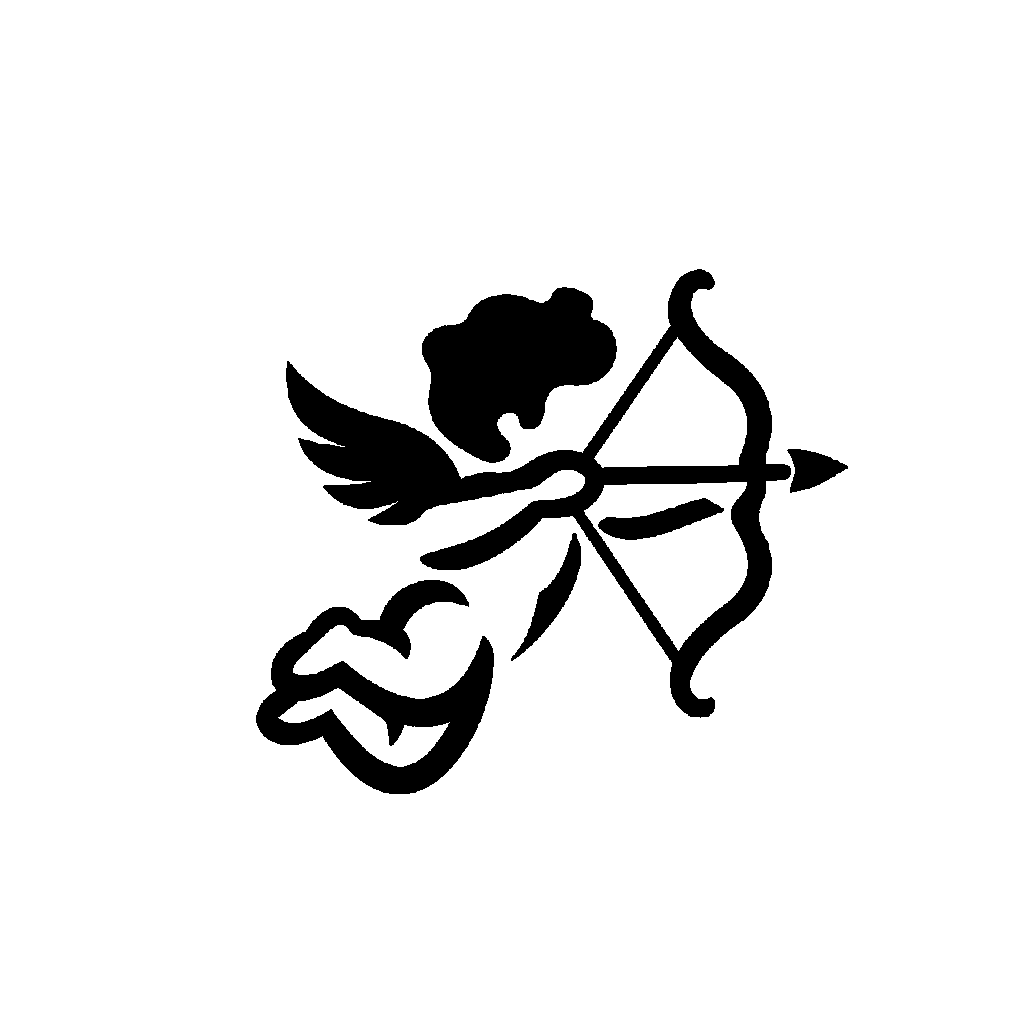
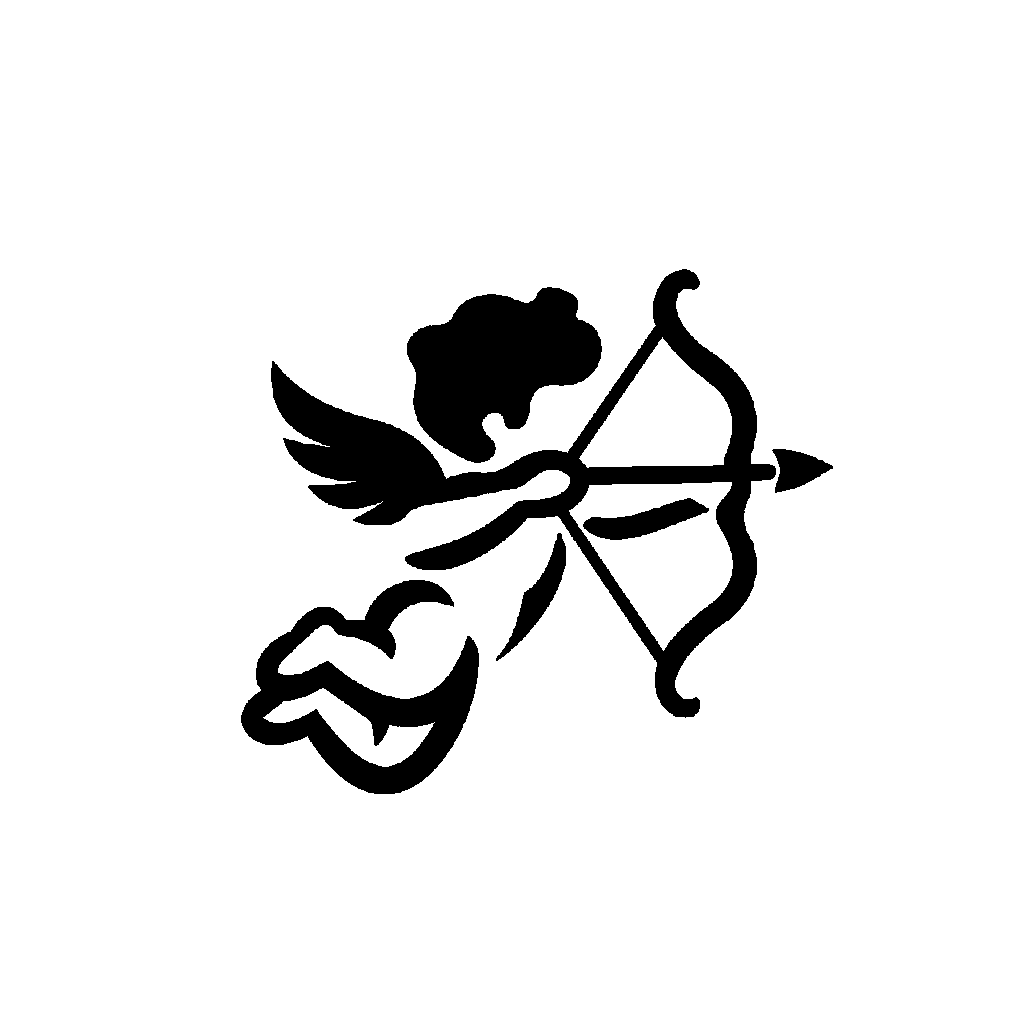
Camera works.

Changed region(s): [[0.2188, 0.25, 0.8438, 0.7812], [0.4375, 0.2812, 0.4688, 0.3125]]

diff --git a/Frontend/mobile/cupid-alpha/app/(tabs)/home.tsx b/Frontend/mobile/cupid-alpha/app/(tabs)/home.tsx
@@ -1,4 +1,4 @@
-import { View, Text, ScrollView, Image, TouchableOpacity } from 'react-native'
+import { View, Text, ScrollView, Image, TouchableOpacity, Linking } from 'react-native'
 import React, { useEffect, useState } from 'react'
 import { SafeAreaView } from 'react-native-safe-area-context'
 
@@ -8,6 +8,7 @@ import { StatusBar } from 'expo-status-bar'
 
 import icons from '@/constants/icons'
 import { getAccessToken, getLoggedUsername } from '@/constants/storage'
+import TabOverview from '@/components/TabOverview'
 
 const Home = () => {
   const [isAuthenticated, setIsAuthenticated] = useState(false);
@@ -52,13 +53,27 @@ const Home = () => {
     setCounter(c => c+1);
   }
 
+  const redirectToHttps = async () => {
+    const url = 'https://app.cupid.pics/mobile';
+    try {
+      const supported = await Linking.canOpenURL(url);
+      if (supported) {
+        await Linking.openURL(url);
+      } else {
+        console.error("Can't open the URL:", url);
+      }
+    } catch (error) {
+      console.error('An error occurred while trying to open the URL:', error);
+    }
+  };
+
   return (
     <SafeAreaView className='bg-primarygray h-full'>  
       <ScrollView contentContainerStyle={{
         height: '100%'
       }}>
-        <View className='w-full justify-center items-center min-h-[85vh] px-4'>
-        <View className="w-[200px] h-[200px] justify-center items-center absolute top-6">
+        <View className='w-full justify-center items-center px-4'>
+        <View className="w-[200px] h-[200px] justify-center items-center mt-5">
             <TouchableOpacity onPress={handleClick} className="justify-center items-center w-full h-full">
               <Image 
                 source={icons.cupidlogo} 
@@ -69,14 +84,27 @@ const Home = () => {
             </TouchableOpacity>
           </View>
         
-          <View className='relative mt-5'>
-            <Text className='text-3xl text-primary text-center font-bold'>
-              App manual here
+          <View className='mt-6 w-full'>
+            <Text className='text-3xl text-primary font-bold'>
+              App overview
             </Text>
+            <TabOverview
+              title={'Home'}
+              description={'You are currently here'}
+              />
+            <TabOverview
+              title={'Camera'}
+              description={'Join the party and take photos. Share your memories with friends. Camera permissions required.'}
+              />
+            <TabOverview
+              title={'Profile'}
+              description={`Manage your account and parties, browse gallery and more. Available only for registered users.`}
+              />
           </View>
-          <Text className='text-sm text-tertiary font-pregular mt-7 text-center'>
-            Something else here
-          </Text>
+          <View className='flex-row items-center justify-center mt-6'>
+            <Text className='text-sm text-tertiary font-pregular text-center'>Read more about CUPID mobile app: </Text>
+            <Text onPress={redirectToHttps} className='text-sm text-secondary-200 font-pregular text-center underline'>Manual</Text>
+          </View>
           { !isAuthenticated &&
           <CustomButton
             title="Create CUPID account"

diff --git a/Frontend/mobile/cupid-alpha/app/(party-management)/gallery.tsx b/Frontend/mobile/cupid-alpha/app/(party-management)/gallery.tsx
@@ -66,7 +66,6 @@ const Gallery = () => {
     
       checkLogginStatus();
       fetchPartyDetails();
-      fetchPhotos();
       setIsLoading(false);
       console.log('Gallery page loaded');
     }, [partyID, isScreenFocused]);
@@ -159,12 +158,12 @@ return (
       <>
       {(isSliderOpen && currentIndex !== null && partyID) ? (
         <Slider
-          currentIndex={currentIndex + (pageIndex - 1) * 24}
-          setCurrentIndex={setCurrentIndex}
-          isSliderOpen={isSliderOpen}
-          setIsSliderOpen={setIsSliderOpen}
-          pageCount={pageCount}
-          partyID={partyID} />
+                      currentIndex={currentIndex + (pageIndex - 1) * 24}
+                      setCurrentIndex={setCurrentIndex}
+                      isSliderOpen={isSliderOpen}
+                      setIsSliderOpen={setIsSliderOpen}
+                      pageCount={pageCount}
+                      partyID={partyID} />
       ) : (
         <>
         <FlatList

diff --git a/Frontend/mobile/cupid-alpha/components/Slider.tsx b/Frontend/mobile/cupid-alpha/components/Slider.tsx
@@ -12,7 +12,6 @@ interface sliderProps {
     setIsSliderOpen: React.Dispatch<React.SetStateAction<boolean>>;
     pageCount: number | null;
     partyID: string;
-    photos: any[];
 }
 
 const Slider = ({ currentIndex, setCurrentIndex, isSliderOpen, setIsSliderOpen, pageCount, partyID}: sliderProps) => {
@@ -123,12 +122,12 @@ const Slider = ({ currentIndex, setCurrentIndex, isSliderOpen, setIsSliderOpen, 
                   )}
                 </>
               )}
-              <TouchableOpacity
+              {/* <TouchableOpacity
                 onPress={() => setIsSliderOpen(false)}
                 className="absolute top-[65px] right-2 p-3 bg-red-500 rounded-md"
               >
                 <Text style={{ color: 'white' }}>Close</Text>
-              </TouchableOpacity>
+              </TouchableOpacity> */}
             </View>
           </PanGestureHandler>
         </GestureHandlerRootView>

diff --git a/Frontend/mobile/cupid-alpha/app/(tabs)/camera.tsx b/Frontend/mobile/cupid-alpha/app/(tabs)/camera.tsx
@@ -79,7 +79,8 @@ export default function Camera() {
   }, [isFocused]);
 
   if (isLoading) {
-    return <SafeAreaView className="bg-primarygray h-full" ><Text className='text-white font-bbold'>Loading...</Text></SafeAreaView>;
+    // return <SafeAreaView className="bg-primarygray h-full w-full items-center justify-center" ><Text className='text-white font-bbold'>Loading...</Text></SafeAreaView>;
+    return <View className="bg-primarygray w-full h-full" />;
   }
 
   if (!camPermission) {
@@ -191,7 +192,7 @@ export default function Camera() {
               iconSize={40}
             />
 
-</View>
+        </View>
         </CameraView>
       </View>
     }

diff --git a/Frontend/mobile/cupid-alpha/components/TabOverview.tsx b/Frontend/mobile/cupid-alpha/components/TabOverview.tsx
@@ -1,0 +1,18 @@
+import { View, Text } from 'react-native'
+import React from 'react'
+
+interface TabOverviewProps {
+    title: string,
+    description: string,
+}
+
+const TabOverview = ({title, description} : TabOverviewProps) => {
+  return (
+    <View>
+      <Text className='mt-4 text-2xl text-primary font-bbold'>{title}</Text>
+      <Text className='text-xl text-primary font-bregular'>{description}</Text>
+    </View>
+  )
+}
+
+export default TabOverview

diff --git a/Frontend/mobile/cupid-alpha/app/index.tsx b/Frontend/mobile/cupid-alpha/app/index.tsx
@@ -88,7 +88,7 @@ const App = () => {
           <View className='relative mt-5'>
             <Text className='text-3xl text-primary text-center font-bbold'>
               Welcome to{' '}
-            <Text className='text-secondary-200'>Cupid</Text>!
+            <Text className='text-secondary-200'>CUPID</Text>!
             </Text>
           </View>
           <Text className='text-lg text-primary font-bregular mt-7 text-center'>
